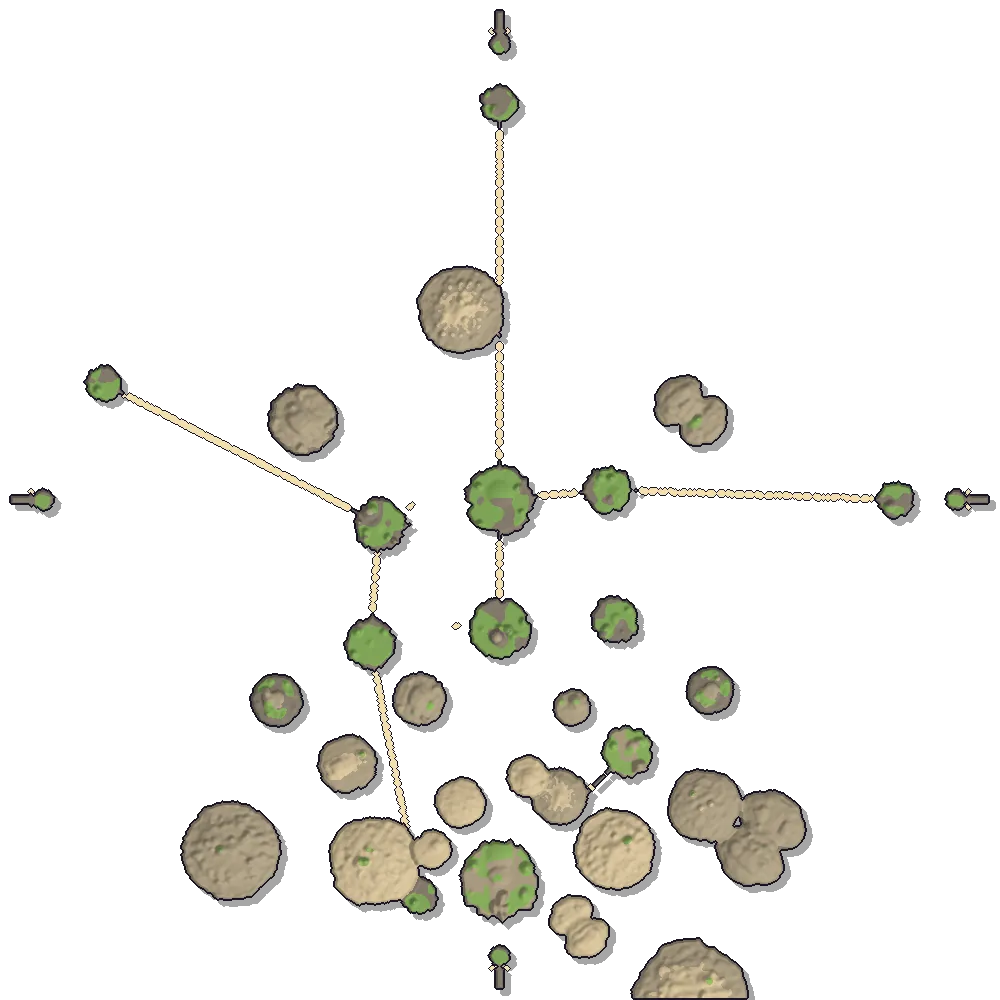
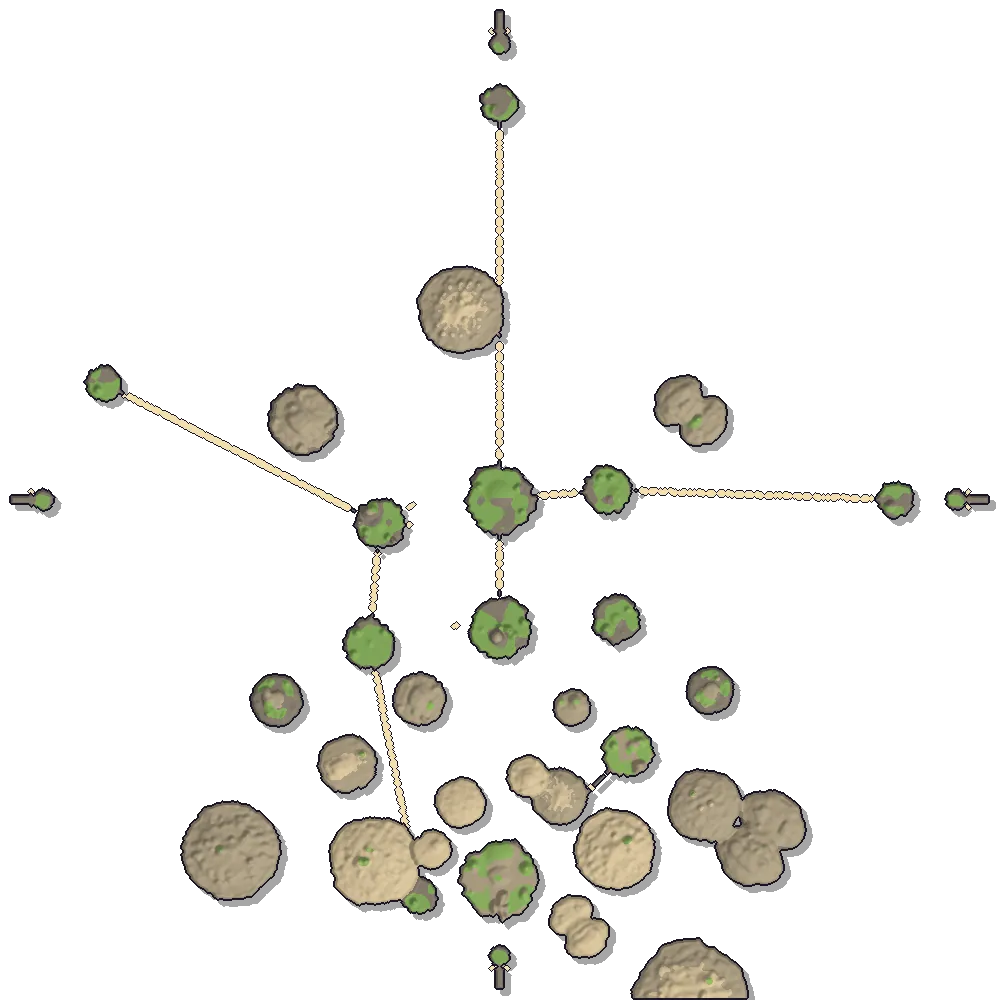
SHARD-PLATFORM SF72: load Sky lift declarations without the renderer (E435)
Move the unchanged lift rows to pure data and prove real Sky ledger rows load, persist, deduplicate, and refuse writes. Headless gameplay remains fail-closed until its trusted installer lands. Rebake the map from the clean candidate.

Validation: clean-export full Vitest 984 files / 5502 tests; root strict, typed oxlint, ratchet, official map bake.

Plan-State: unchanged

diff --git a/src/shards/far-reach/shard.config.ts b/src/shards/far-reach/shard.config.ts
@@ -11,7 +11,7 @@ import { AUDIO } from './data/audio';
 import { MOVERS } from './data/movers';
 import { LIFT_MODULE } from './data/liftModule';
 import { RISING_ISLETS, isleStrips } from './world/islets';
-import { isletLift } from './world/risingIslet';
+import { ISLET_LIFTS } from './data/isletLift';
 
 // Legacy trusted runtime retains today's geometry/spawn; SF29 binds only its audio.
 // SF49-g (G99 / G183) and SF8c's socketLift: every entry meets the road over the cloud sea's void (no ground below y = 0
@@ -21,7 +21,7 @@ import { isletLift } from './world/risingIslet';
 // gates are this shardfile's compiled `movers` (one admitted module, behaviour/islet.as); the trusted runtime installs
 // exactly these rows (runtime/movers.ts). world/islets.ts is the one source of the geometry.
 const base = emptyShardfile({ slug: 'far-reach', name: 'Sky Reach', author: 'Wildshard', revision: 1, seed: 6417 });
-const lifts = new Map(RISING_ISLETS.map((entry) => [entry.edge, parseSocketLift(isletLift(entry))]));
+const lifts = new Map(ISLET_LIFTS.map((entry) => [entry.edge, parseSocketLift(entry.lift)]));
 const script = { hash: LIFT_MODULE.hash, kind: 'wasm', compressed: LIFT_MODULE.bytes, decoded: LIFT_MODULE.bytes, gpu: 0, triangles: 0, draws: 0, dependencies: [], critical: true };
 // oxlint-disable-next-line import/no-default-export -- The author CLI loads shard.config.ts as the project entry.
 export default parseShardfile({ ...base, accent: 'pink', runtime: { entry: 'runtime/index.ts', cost: SKY_REACH_RUNTIME_COST, binds: ['quests', 'ledger', 'state', 'items', 'spawns'], spawns: SKY_SPAWNS }, audio: AUDIO,

diff --git a/src/shards/far-reach/data/isletLift.ts b/src/shards/far-reach/data/isletLift.ts
@@ -1,0 +1,15 @@
+import { RISING_ISLETS, type P3, type RisingIslet } from '../world/islets';
+
+/** The mover id of an entry's islet. */
+const isletId = (entry: RisingIslet): string => `far.islet.${entry.edge}`;
+/** The mover id of an entry's stationary road gate (SF8c socketLift). */
+const gateId = (entry: RisingIslet): string => `far.islet.${entry.edge}.gate`;
+/** SF8c: an entry's declared socketLift link (shard.config.ts's entryway; the platform proves and commands it). */
+function isletLift(entry: RisingIslet): { mover: string; gate: string; roadStop: [number, number, number]; topStop: [number, number, number]; route: [number, number, number][]; rideTicks: number; approach: { colliders: string[]; route: [number, number, number][] } } {
+  const v = (p: P3): [number, number, number] => [p.x + 0, p.y + 0, p.z + 0]; // JSON data: never −0
+  return { mover: isletId(entry), gate: gateId(entry), roadStop: v(entry.rest), topStop: v(entry.dock), route: entry.lift.route.map(v), rideTicks: entry.lift.rideTicks,
+    approach: { colliders: [`landing.${entry.edge}`], route: entry.lift.approach.map(v) } };
+}
+
+/** The four socket lifts as serializable declarations, in the authored edge order. */
+export const ISLET_LIFTS = RISING_ISLETS.map(entry => ({ edge: entry.edge, lift: isletLift(entry) }));

diff --git a/src/shards/far-reach/world/risingIslet.ts b/src/shards/far-reach/world/risingIslet.ts
@@ -50,12 +50,6 @@ export function isletMoverRows(module: string): LiftRow[] {
   });
   return [...islets, ...gates];
 }
-/** SF8c: an entry's declared socketLift link (shard.config.ts's entryway; the platform proves and commands it). */
-export function isletLift(entry: RisingIslet): { mover: string; gate: string; roadStop: [number, number, number]; topStop: [number, number, number]; route: [number, number, number][]; rideTicks: number; approach: { colliders: string[]; route: [number, number, number][] } } {
-  const v = (p: P3): [number, number, number] => [p.x + 0, p.y + 0, p.z + 0]; // JSON data: never −0
-  return { mover: isletId(entry), gate: gateId(entry), roadStop: v(entry.rest), topStop: v(entry.dock), route: entry.lift.route.map(v), rideTicks: entry.lift.rideTicks,
-    approach: { colliders: [`landing.${entry.edge}`], route: entry.lift.approach.map(v) } };
-}
 /** The lip's collider exactly as the shardfile declares it. */
 export function lipCollider(entry: RisingIslet): ColliderDesc {
   const l = entry.landing;

diff --git a/test/proof/far-reach/ledger.test.ts b/test/proof/far-reach/ledger.test.ts
@@ -1,10 +1,11 @@
 import { expect, it } from 'vitest';
 import { nativeCompatibility } from '../compatibility/native';
 
-it('refuses ledger compatibility when the actual shard source cannot load in strict Node', () => {
+it('loads the full node-safe source and proves its partial durable ledger contract', () => {
   const result = nativeCompatibility('far-reach', 'ledger');
   expect(result.status).toBe(1); expect(result.stderr).toBe('');
   const report: unknown = JSON.parse(result.stdout);
-  expect(report).toMatchObject({ compatible: false, ledger: { status: 'blocked',
-    dependency: 'Renderer dependency in Node simulation: repo:/src/engine/app/runtime.ts', gameplayEmissionProven: false } });
+  expect(report).toMatchObject({ compatible: false, declarations: { sourceLoaded: true, scripts: 1, ordinarySpawns: 0 },
+    ledger: { status: 'partial', rules: 2, facts: 2, durableReload: true, refusedWriteRetried: true,
+      duplicateStable: true, gameplayEmissionProven: false } });
 });
